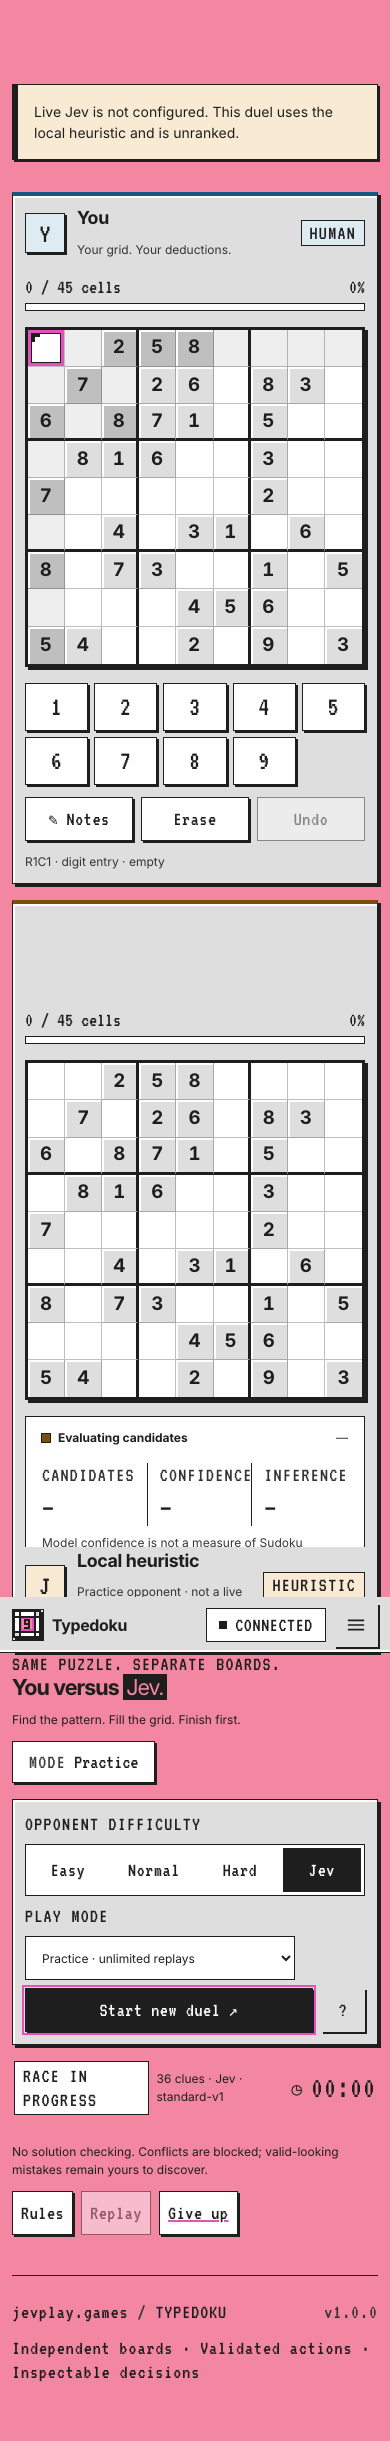
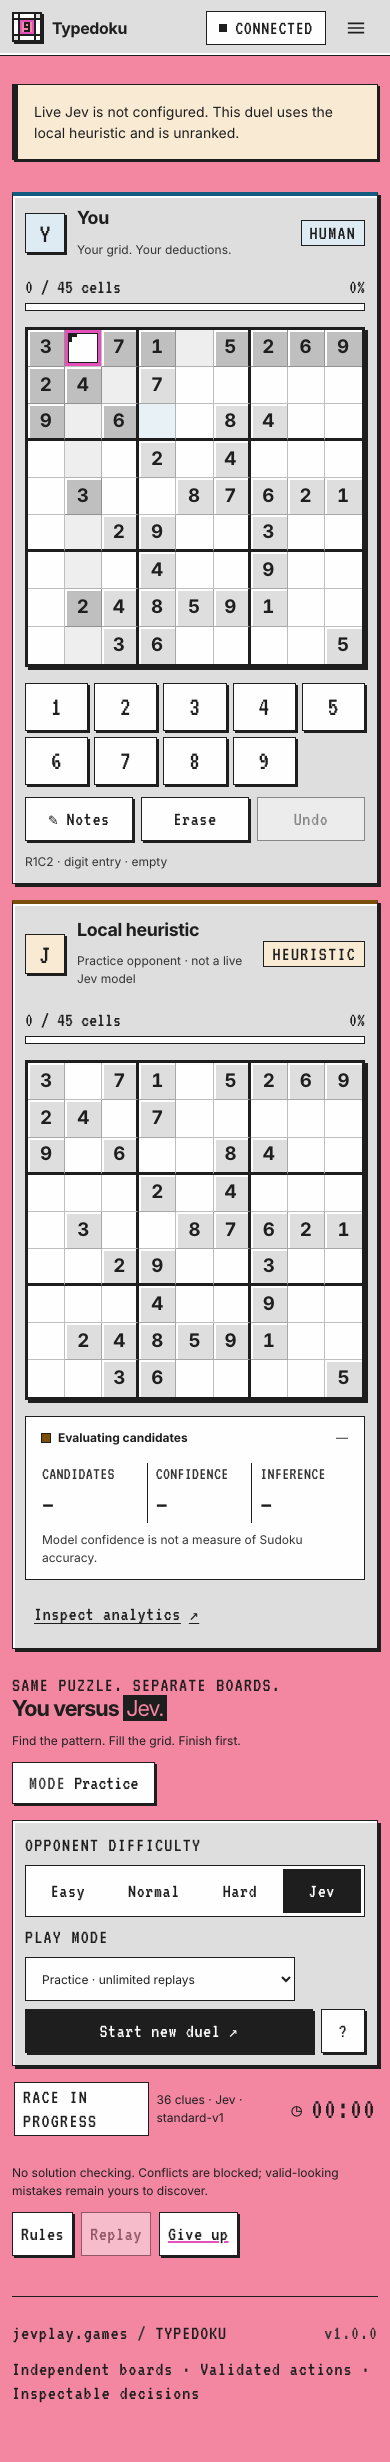
Retake the screenshots after the layout fixes; capture the mobile one from the top
scripts/browser_smoke.py (9/9) retook reports/workers/desktop-game.png, desktop-analytics.png and mobile-game.png, and
reports/*.png are byte-identical copies as before. They now show the paper selected cell under the pointer, the hero gap, the
framed "?" key and the local-heuristic analytics labels. The mobile shot was taken full-page while scrolled to the setup bar,
which painted the sticky header and the sticky opponent heading mid-page (in the previous copy too); the smoke script now scrolls
to the top before that capture. No assertion changed.

Changed region(s): [[0.0, 0.0, 1.0, 0.9652], [0.4, 0.934, 0.4308, 0.9652]]

diff --git a/scripts/browser_smoke.py b/scripts/browser_smoke.py
@@ -208,6 +208,9 @@ def run() -> None:
                 expect(mp.locator('#phase-label')).to_have_text('RACE IN PROGRESS', timeout=15000)
                 overflow = mp.evaluate('document.documentElement.scrollWidth > window.innerWidth')
                 assert not overflow, 'Mobile page overflows horizontally'
+                # Capture from the top: a full-page shot taken while scrolled paints the sticky header and the sticky
+                # opponent heading mid-page.
+                mp.evaluate('window.scrollTo(0, 0)')
                 mp.screenshot(path=str(REPORTS/'mobile-game.png'), full_page=True)
                 mp.locator('#rules-footer').click()
                 expect(mp.locator('#rules-dialog')).to_be_visible()
